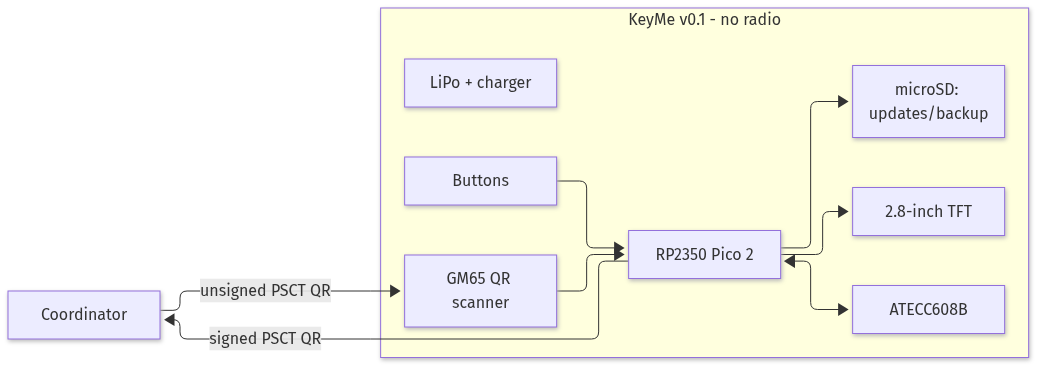
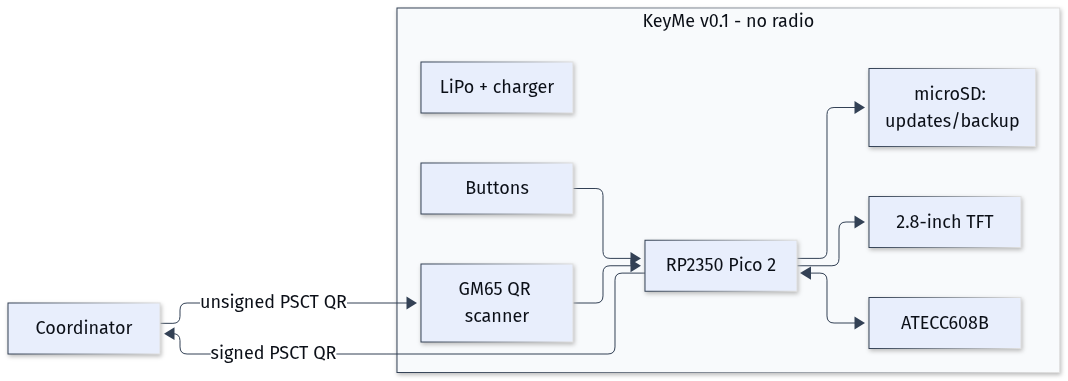
Improve diagram contrast and cache-bust images

diff --git a/docs/07-dis-proposal-v1.md b/docs/07-dis-proposal-v1.md
@@ -1,4 +1,4 @@
-# [DIS] KeyMe — CKB's PSBT: Open Air-Gapped Signing and the First DIY Hardware
+# [DIS] KeyMe â€” CKB's PSBT: Open Air-Gapped Signing and the First DIY Hardware
 
 If you have used a Bitcoin hardware wallet, the flow is familiar.
 
@@ -12,7 +12,7 @@ KeyMe is the CKB version. PSCT is the container, CKB's equivalent of PSBT. KeyMe
 
 ## The one-minute version
 
-PSCT — a Partially Signed CKB Transaction — is a file with three parts: the transaction, a proof for every coin it spends, and the block headers the scripts need. The device checks that each proof hashes to the coin it claims, decodes the previous output, checks the script against its registry, and shows the amount, destination, fee and change. It signs only after you confirm. It never trusts the coordinator's summary, an address label, or a script it does not know.
+PSCT â€” a Partially Signed CKB Transaction â€” is a file with three parts: the transaction, a proof for every coin it spends, and the block headers the scripts need. The device checks that each proof hashes to the coin it claims, decodes the previous output, checks the script against its registry, and shows the amount, destination, fee and change. It signs only after you confirm. It never trusts the coordinator's summary, an address label, or a script it does not know.
 
 ## The idea is not new
 
@@ -47,10 +47,10 @@ KeyMe's software is not a paper design. It is the oracle the hardware will be te
 | Coordinator + signer | CLI. Builds, binds, displays, refuses, signs, finalizes. |
 | Second implementation | Rust. Byte-identical `tx_hash` and `full_tx_hash`; 3/3 conformance vectors. |
 | Testnet | Transfer at block 23,084,406. 2-of-3 payout at block 23,086,201. |
-| Devnet | DAO deposit → prepare → withdraw; xUDT mint → transfer. Reproducible with the demo scripts. |
+| Devnet | DAO deposit â†’ prepare â†’ withdraw; xUDT mint â†’ transfer. Reproducible with the demo scripts. |
 | Hardware | Board selected: Pico 2 (RP2350). Build starts with this grant. |
 
-The testnet transfer is [0xbb10d0b6…1a85](https://explorer.nervos.org/transaction/0xbb10d0b6fb9ad72f6618f29020a1f065e73b4435f5ce24515afcbcb5c50a1a85); the 2-of-3 spend is [0x0ea1b375…535f](https://explorer.nervos.org/transaction/0x0ea1b3755a6a9610d266a791f2adb0b8c484e6fa1fe203ccfccffedfddbd535f). The DAO and xUDT runs are devnet, not public chain; the scripts are in the repository. In total: 68 tests, plus the Rust conformance run. The repository is `https://github.com/WuodOdhis/keyme`; the spec is `spec/psct-v0.md`.
+The testnet transfer is [0xbb10d0b6â€¦1a85](https://explorer.nervos.org/transaction/0xbb10d0b6fb9ad72f6618f29020a1f065e73b4435f5ce24515afcbcb5c50a1a85); the 2-of-3 spend is [0x0ea1b375â€¦535f](https://explorer.nervos.org/transaction/0x0ea1b3755a6a9610d266a791f2adb0b8c484e6fa1fe203ccfccffedfddbd535f). The DAO and xUDT runs are devnet, not public chain; the scripts are in the repository. In total: 68 tests, plus the Rust conformance run. The repository is `https://github.com/WuodOdhis/keyme`; the spec is `spec/psct-v0.md`.
 
 ## What this grant delivers
 
@@ -66,7 +66,7 @@ The testnet transfer is [0xbb10d0b6…1a85](https://explorer.nervos.org/transact
 
 The coordinator proposes; the device verifies.
 
-![PSCT signing flow](https://raw.githubusercontent.com/WuodOdhis/keyme/main/docs/assets/psct-flow.png)
+![PSCT signing flow](https://raw.githubusercontent.com/WuodOdhis/keyme/main/docs/assets/psct-flow.png?v=2)
 
 The device trusts only three things: the canonical PSCT bytes, proofs that hash to the inputs they claim, and its own account and script registry. If a lock or type is unknown, it refuses. If the CBOR is non-canonical, it refuses. If the proof, network or header is wrong, it refuses. There is no "proceed anyway" button.
 
@@ -92,7 +92,7 @@ A short concept animation shows the flow: the coordinator builds the PSCT, the f
 
 The units are off-the-shelf modules on a carrier board. No custom injection mold, no custom silicon.
 
-![KeyMe hardware block](https://raw.githubusercontent.com/WuodOdhis/keyme/main/docs/assets/keyme-hardware.png)
+![KeyMe hardware block](https://raw.githubusercontent.com/WuodOdhis/keyme/main/docs/assets/keyme-hardware.png?v=2)
 
 Why these parts:
 
@@ -138,7 +138,7 @@ One unit is about $100 in parts (v2 should be significantly cheaper once we have
 
 The first payment is released at approval and funds the hardware order. The kickoff report at week 1 is reviewed before the M1 payment.
 
-The minimum viable outcome is one working unit plus open firmware and docs. If something has to give, the cut order is spare unit → custom carrier board → ATECC. The firmware and docs are never cut.
+The minimum viable outcome is one working unit plus open firmware and docs. If something has to give, the cut order is spare unit â†’ custom carrier board â†’ ATECC. The firmware and docs are never cut.
 
 ## Budget
 
@@ -185,7 +185,7 @@ This grant is not a promise of a company or a retail product. It proves the desi
 
 ## Why me
 
-I am WuodOdhis. I hold a BSc in Electrical Engineering. I am well versed in the hardware side of this build — board-level design, power, displays, scanners and embedded debugging — and my software and blockchain work covers the PSCT verifier, transaction semantics and the signed bytes. Together they give me an end-to-end understanding of the device, from the carrier board and power path to the signature.
+I am WuodOdhis. I hold a BSc in Electrical Engineering. I am well versed in the hardware side of this build â€” board-level design, power, displays, scanners and embedded debugging â€” and my software and blockchain work covers the PSCT verifier, transaction semantics and the signed bytes. Together they give me an end-to-end understanding of the device, from the carrier board and power path to the signature.
 
 The public CKB work below is the base this proposal builds on.
 
@@ -193,7 +193,7 @@ The public CKB work below is the base this proposal builds on.
 |---|---|---|
 | KeyMe | PSCT v0, verifier, coordinator, offline signer, Rust conformance; 68 tests; testnet and devnet runs | [repo](https://github.com/WuodOdhis/keyme) |
 | CKBuilders | CKB Dev Log from the CKBuilders program: cell model, xUDT, JoyID, Spore, Rust scripts, weekly reports, capstone | [repo](https://github.com/WuodOdhis/ckbuilders) |
-| Reflections of a CKBuilder | Three merged Nervos Education Hub articles on the cell model, builder semantics and RGB++/Bitcoin interoperability | [Part 1](https://github.com/NervosEducationHub/EducationHubArticles/pull/265), [Parts 2–3](https://github.com/NervosEducationHub/EducationHubArticles/pull/275) |
+| Reflections of a CKBuilder | Three merged Nervos Education Hub articles on the cell model, builder semantics and RGB++/Bitcoin interoperability | [Part 1](https://github.com/NervosEducationHub/EducationHubArticles/pull/265), [Parts 2â€“3](https://github.com/NervosEducationHub/EducationHubArticles/pull/275) |
 | CellScript swap builder | Deterministic CKB transaction builder for CellScript `amm_pool` contracts (local devnet) | [repo](https://github.com/WuodOdhis/cellscript-swap-builder) |
 | Fiber LSP | Prototype receive-first liquidity service on the Fiber Network | [repo](https://github.com/WuodOdhis/fiber_pi) |
 | CKB Agent Lock | Web2-to-Web3 claim flow with a custom RISC-V lock on CKB-VM | [repo](https://github.com/WuodOdhis/agentckblock) |
